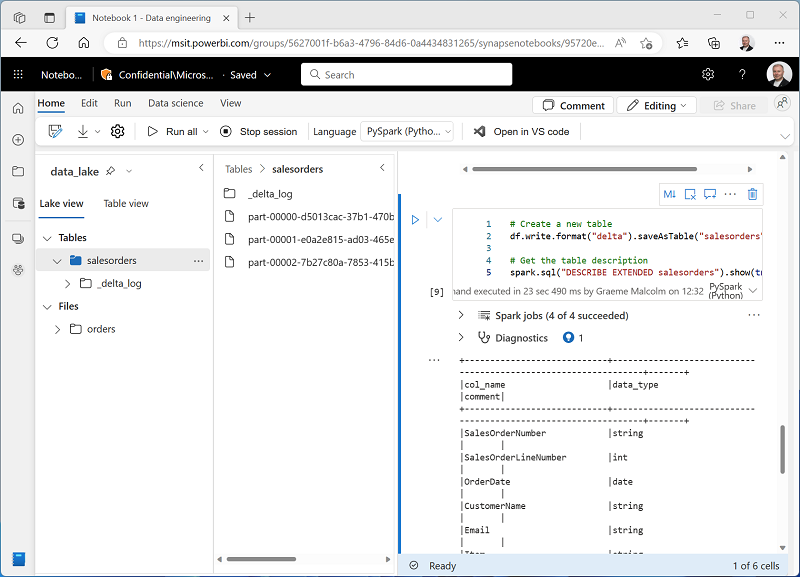
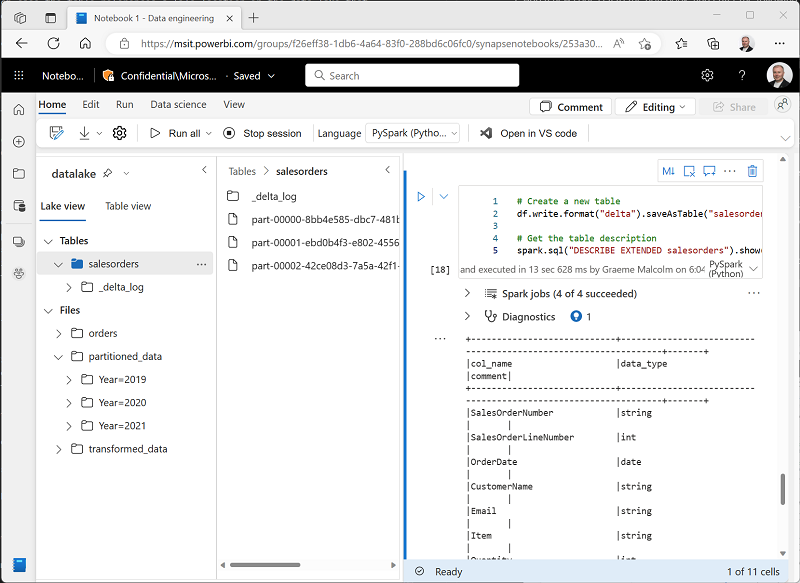
Added transformation and saving

diff --git a/Instructions/Labs/01-analyze-spark.md b/Instructions/Labs/01-analyze-spark.md
@@ -59,7 +59,7 @@ To work with data in Apache Spark, you can create a *notebook*. Notebooks provid
 
 3. Use the **&#128393;** (Edit) button to switch the cell to editing mode, then modify the markdown as follows:
 
-    ```
+    ```text
     # Sales order data exploration
 
     Use the code in this notebook to explore sales order data.
@@ -89,7 +89,7 @@ Now you're ready to run code that loads the data into a *dataframe*. Dataframes 
 
 3. Use the **&#9655; Run cell** button on the left of the cell to run it.
 
-    > **Note**: Since this is the first time you've run any Spark code in this session, the Spark pool must be started. This means that the first run in the session can take a few minutes. Subsequent runs will be quicker.
+    > **Note**: Since this is the first time you've run any Spark code in this session, the Spark pool must be started. This means that the first run in the session can take a minute or so to complete. Subsequent runs will be quicker.
 
 4. When the cell command has completed, review the output below the cell, which should look similar to this:
 
@@ -124,7 +124,6 @@ Now you're ready to run code that loads the data into a *dataframe*. Dataframes 
 
     ```python
     from pyspark.sql.types import *
-    from pyspark.sql.functions import *
 
     orderSchema = StructType([
         StructField("SalesOrderNumber", StringType()),
@@ -151,13 +150,12 @@ Now you're ready to run code that loads the data into a *dataframe*. Dataframes 
     | 3 | SO43705 | 1 | 2019-07-01 | Curtis Lu | curtis9@adventure-works.com | Mountain-100 Silver, 38 | 1 | 3399.99 | 271.9992 |
     | ... | ... | ... | ... | ... | ... | ... | ... | ... | ... |
 
-    Now the dataframe includes the correct column names and data types as defined by the schema (in addition to the **Index**, which is a built-in column in all dataframes based on the ordinal position of each row).
+    Now the dataframe includes the correct column names (in addition to the **Index**, which is a built-in column in all dataframes based on the ordinal position of each row). The data types of the columns are specified using a standard set of types defined in the Spark SQL library, which were imported at the beginning of the cell.
 
 9. The dataframe includes only the data from the **2019.csv** file. Modify the code so that the file path uses a \* wildcard to read the sales order data from all of the files in the **orders** folder:
 
     ```python
     from pyspark.sql.types import *
-    from pyspark.sql.functions import *
 
     orderSchema = StructType([
         StructField("SalesOrderNumber", StringType()),
@@ -197,7 +195,7 @@ The dataframe object includes a wide range of functions that you can use to filt
 2. Run the new code cell, and review the results. Observe the following details:
     - When you perform an operation on a dataframe, the result is a new dataframe (in this case, a new **customers** dataframe is created by selecting a specific subset of columns from the **df** dataframe)
     - Dataframes provide functions such as **count** and **distinct** that can be used to summarize and filter the data they contain.
-    - The `dataframe['Field1', 'Field2', ...]` syntax is a shorthand way of defining a subset of column. You can also use **select** method, so the first line of the code above could be written as `customers = df.select("CustomerName", "Email")`
+    - The `dataframe['Field1', 'Field2', ...]` syntax is a shorthand way of defining a subset of columns. You can also use **select** method, so the first line of the code above could be written as `customers = df.select("CustomerName", "Email")`
 
 3. Modify the code as follows:
 
@@ -224,11 +222,96 @@ The dataframe object includes a wide range of functions that you can use to filt
 3. Add another new code cell to the notebook, and enter the following code in it:
 
     ```Python
+    from pyspark.sql.functions import *
+
     yearlySales = df.select(year("OrderDate").alias("Year")).groupBy("Year").count().orderBy("Year")
     display(yearlySales)
     ```
 
-4. Run the code cell you added, and note that the results show the number of sales orders per year. Note that the **select** method includes a SQL **year** function to extract the year component of the *OrderDate* field, and then an **alias** method is used to assign a columm name to the extracted year value. The data is then grouped by the derived *Year* column and the count of rows in each group is calculated before finally the **orderBy** method is used to sort the resulting dataframe.
+4. Run the code cell you added, and note that the results show the number of sales orders per year. Note that the **select** method includes a SQL **year** function to extract the year component of the *OrderDate* field (which is why the code includes an **import** statement to import functions from the Spark SQL library). It then uses an **alias** method is used to assign a column name to the extracted year value. The data is then grouped by the derived *Year* column and the count of rows in each group is calculated before finally the **orderBy** method is used to sort the resulting dataframe.
+
+## Use Spark to transform data files
+
+A common task for data engineers is to ingest data in a particular format or structure, and transform it for further downstream processing or analysis.
+
+### Use dataframe methods and functions to transform data
+
+1. Add another new code cell to the notebook, and enter the following code in it:
+
+    ```Python
+    from pyspark.sql.functions import *
+
+    ## Create Year and Month columns
+    transformed_df = df.withColumn("Year", year(col("OrderDate"))).withColumn("Month", month(col("OrderDate")))
+
+    # Create the new FirstName and LastName fields
+    transformed_df = transformed_df.withColumn("FirstName", split(col("CustomerName"), " ").getItem(0)).withColumn("LastName", split(col("CustomerName"), " ").getItem(1))
+
+    # Filter and reorder columns
+    transformed_df = transformed_df["SalesOrderNumber", "SalesOrderLineNumber", "OrderDate", "Year", "Month", "FirstName", "LastName", "Email", "Item", "Quantity", "UnitPrice", "Tax"]
+
+    # Display the first five orders
+    display(transformed_df.limit(5))
+    ```
+
+2. Run the code to create a new dataframe from the original order data with the following transformations:
+    - Add **Year** and **Month** columns based on the **OrderDate** column.
+    - Add **FirstName** and **LastName** columns based on the **CustomerName** column.
+    - Filter and reorder the columns, removing the **CustomerName** column.
+
+3. Review the output and verify that the transformations have been made to the data.
+
+    You can use the full power of the Spark SQL library to transform the data by filtering rows, deriving, removing, renaming columns, and any applying other required data modifications.
+
+    > **Tip**: See the [Spark dataframe documentation](https://spark.apache.org/docs/latest/api/python/reference/pyspark.sql/dataframe.html) to learn more about the methods of the Dataframe object.
+
+### Save the transformed data
+
+1. Add a new cell with the following code to save the transformed dataframe in Parquet format (Overwriting the data if it already exists):
+
+    ```python
+    transformed_df.write.mode("overwrite").parquet('Files/transformed_data/orders.parquet')
+    print ("Transformed data saved!")
+    ```
+
+    > **Note**: Commonly, *Parquet* format is preferred for data files that you will use for further analysis or ingestion into an analytical store. Parquet is a very efficient format that is supported by most large scale data analytics systems. In fact, sometimes your data transformation requirement may simply be to convert data from another format (such as CSV) to Parquet!
+
+2. Run the cell and wait for the message that the data has been saved. Then, on the **Lake view** tab in the pane on the left, in the **...** menu for the **Files** node, select **Refresh**; and select the **transformed_orders** folder to verify that it contains a new file named **orders.parquet**.
+
+    ![Screenshot of a saved orders.parquet file.](./Images/saved-parquet.png)
+
+3. Add a new cell with the following code to load a new dataframe from the **orders.parquet** file:
+
+    ```python
+    orders_df = spark.read.format("parquet").load("Files/transformed_data/orders.parquet")
+    display(orders_df)
+    ```
+
+4. Run the cell and verify that the results show the order data that has been loaded from the parquet file.
+
+### Save data in partitioned files
+
+1. Add a new cell with the following code; which saves the dataframe, partitioning the data by **year** and **Month**:
+
+    ```python
+    orders_df.write.partitionBy("Year","Month").mode("overwrite").parquet("Files/partitioned_data")
+    print ("Transformed data saved!")
+    ```
+
+2. Run the cell and wait for the message that the data has been saved. Then, on the **Lake view** tab in the pane on the left, in the **...** menu for the **Files** node, select **Refresh**; and expand the **partitioned_orders** folder to verify that it contains a hierarchy of folders named **Year=*xxxx***, each containing folders named **Month=*xxxx***. Each month folder contains a parquet file with the orders for that month.
+
+    ![Screenshot of a hierarchy of partitioned data files.](./Images/partitioned-files.png)
+
+    Partitioning data files is a common way to optimize performance when dealing with large volumes of data. This technique can significant improve performance and make it easier to filter data.
+
+3. Add a new cell with the following code to load a new dataframe from the **orders.parquet** file:
+
+    ```python
+    orders_2021_df = spark.read.format("parquet").load("Files/partitioned_data/Year=2021/Month=*")
+    display(orders_2021_df)
+    ```
+
+4. Run the cell and verify that the results show the order data for sales in 2021. Note that the partitioning columns specified in the path (**Year** and **Month**) are not included in the dataframe.
 
 ## Work with tables and SQL
 
